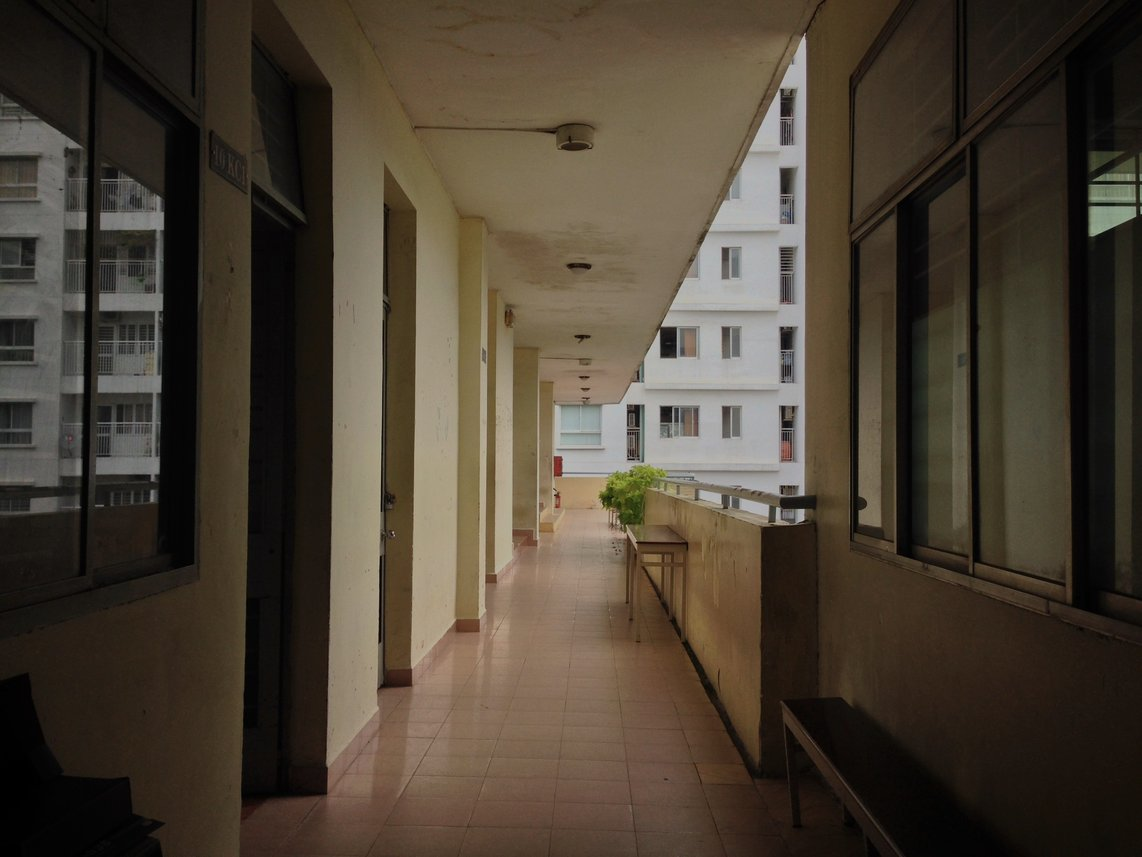
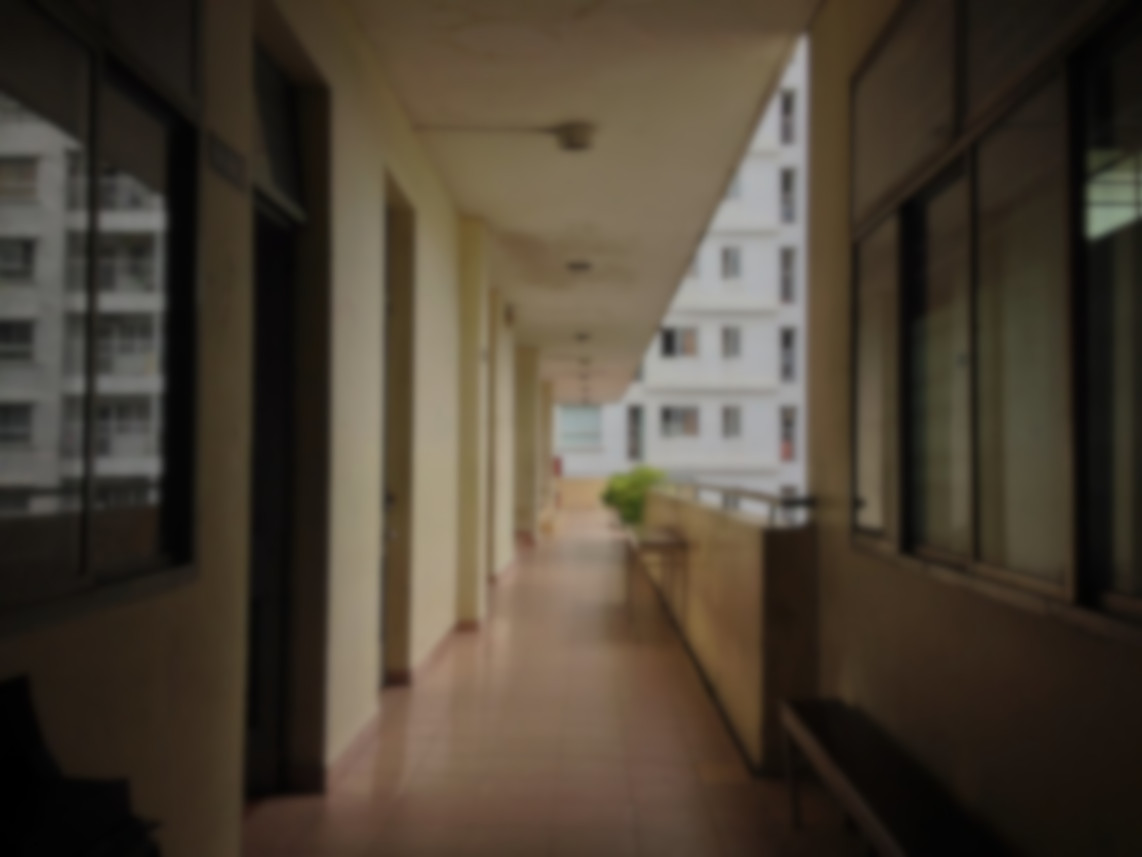
Blurred image 6, Fixed CSS for mobile

diff --git a/css/tooplate-style.css b/css/tooplate-style.css
@@ -594,7 +594,8 @@ figure.effect-goliath:hover p {
 
 @media (max-width: 767px) {
   .tm-site-title {
-    font-size: 3rem;
+    /* font-size: 3rem; */
+    font-size: 1.35rem;
   }
   .tm-top-container {
     flex-direction: column-reverse;
@@ -646,6 +647,7 @@ figure.effect-goliath:hover p {
   }
 
   .tm-section-title {
+    margin: 1rem;
     font-size: 2.4rem;
   }
 }
